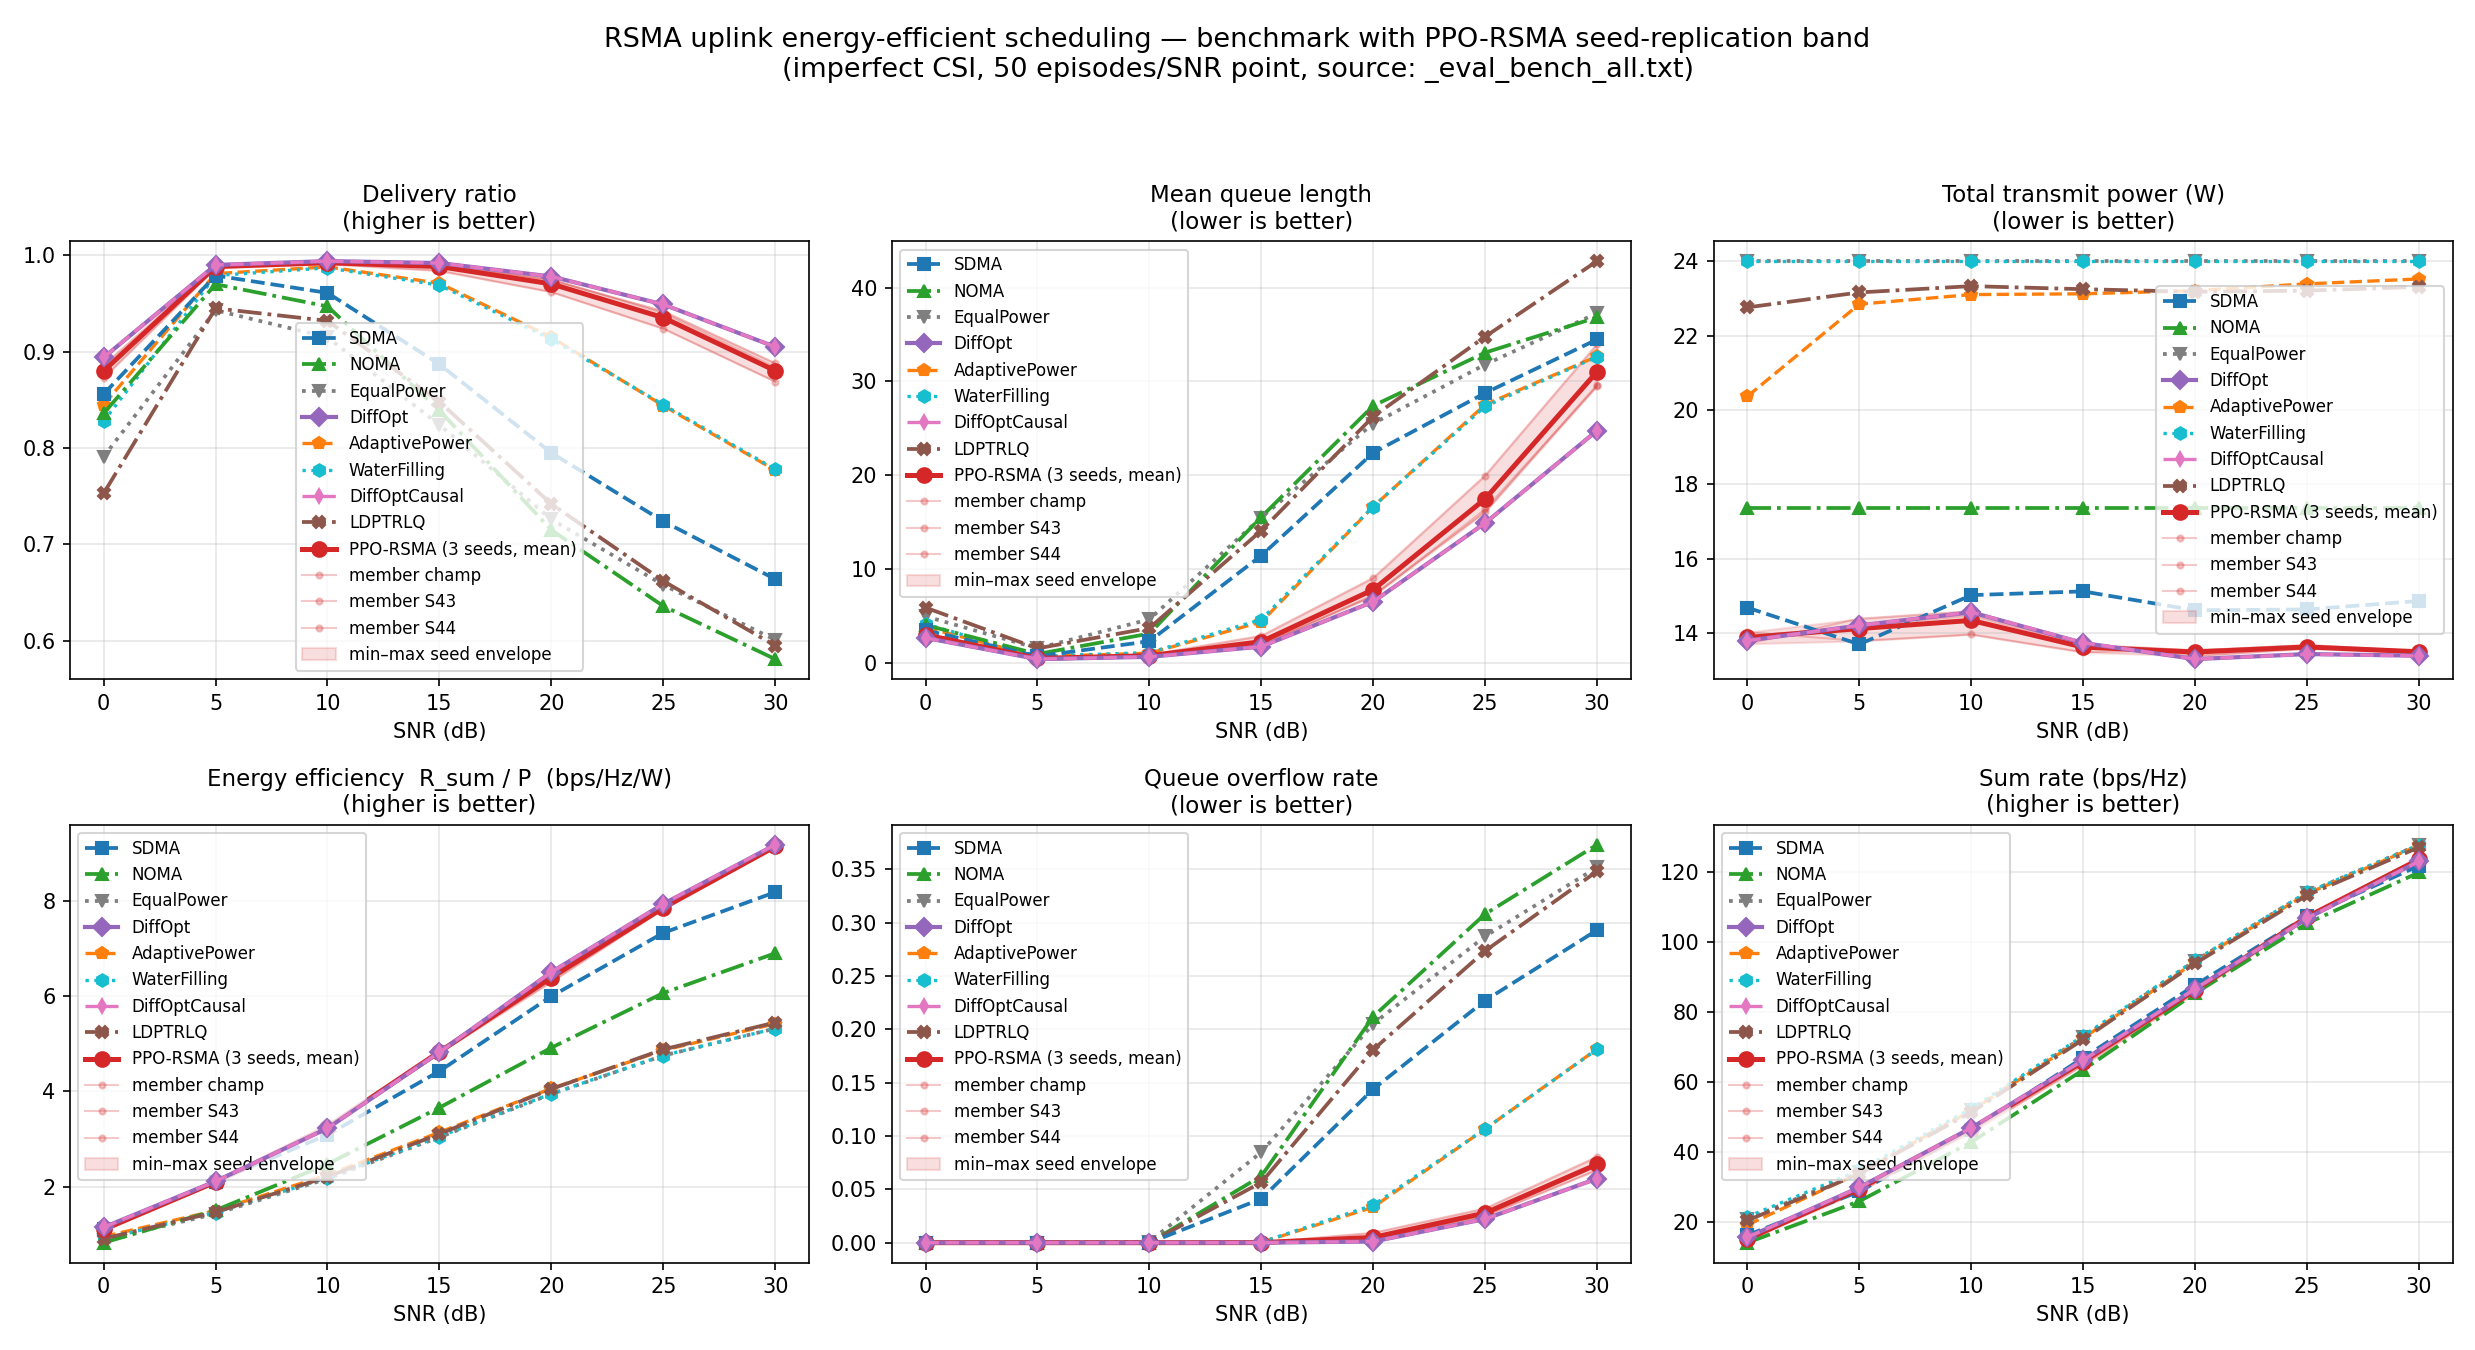
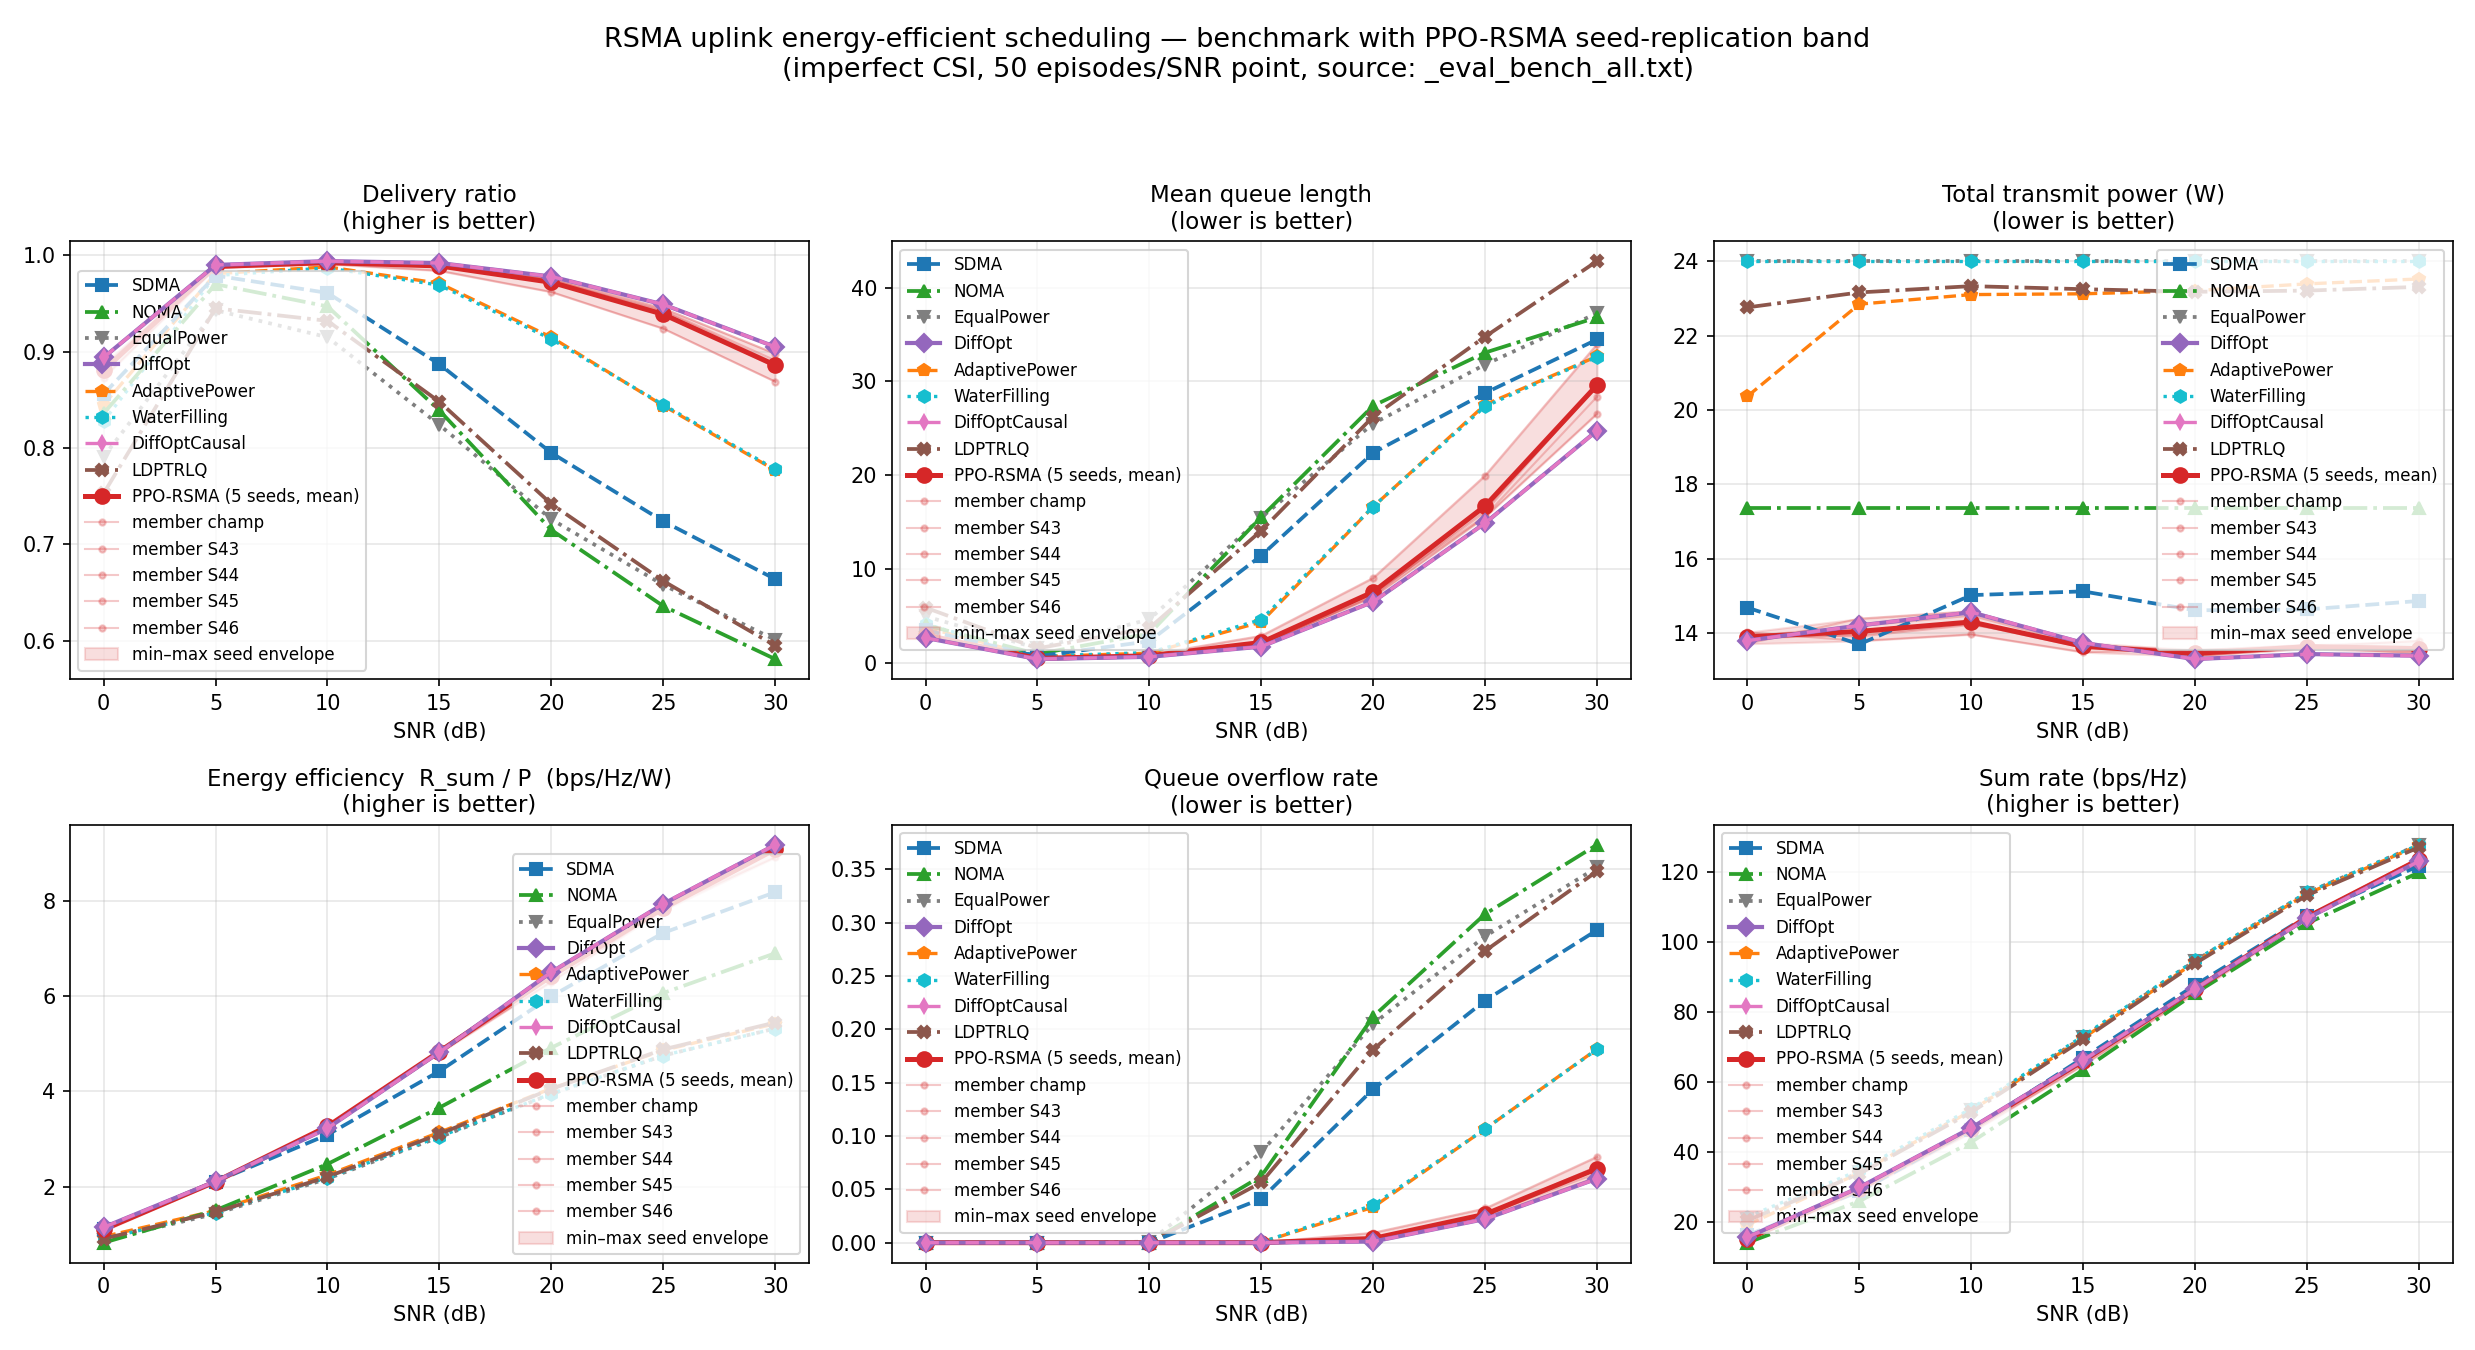
docs: seed band n=5 (seeds 45/46) - descriptive stats updated, claims held
- S45/S46 verbatim champion arms evaluated: best_guard [7,0.9519,...] and
  [7,0.9526,...]; finals [7,0.9390,...] and [7,0.9071,...].
- best_guard draws n=5: mean 0.9496, sd 0.0047, range 0.0112 -> pre-registered
  downgrade trigger (>0.012) NOT met; sigma claim retained, updated to n=5.
- finals n=4 sd 0.0200 >> best-guard sd 0.0047: guard-selected checkpoints
  validated as the delivery artifact (corrects earlier "finals cleaner" notion).
- Paper abstract/V-C/Fig.1 envelope refreshed (5 members); master figure
  regenerated with S45/S46 member lines; trellis results appended.

diff --git a/docs/paper/main.tex b/docs/paper/main.tex
@@ -51,7 +51,7 @@ refines power logits online and supplies demonstrations; the policy is distilled
 by behavior cloning and fine-tuned with a stepwise-frozen protocol (SFTP) with
 guard-selected checkpoints. On a 7-point SNR grid (0--30\,dB, imperfect CSI, 50
 episodes/point), the policy clears all 7 per-point gates with mean delivery
-$\approx 0.950 \pm 0.005$ across seed replications and dominates SDMA, NOMA and
+$0.9496 \pm 0.0047$ across five seed replications and dominates SDMA, NOMA and
 equal-power baselines on delivery, queue and overflow at every SNR---at roughly
 half their transmit power (30\,dB: 0.888 vs.\ 0.664/0.581/0.601). We further show
 that the solver expert \emph{itself}, run as a training-free per-slot optimizer, is
@@ -340,7 +340,7 @@ dispersion is reported alongside every comparison.
 \subsection{Full-grid benchmark against classical baselines}
 Table~\ref{tab:bench} reports per-point delivery ratio (transmit power and mean
 queue parenthetically); Fig.~\ref{fig:band} shows the comparison as curves with
-the seed-replication band (mean and min--max envelope over seeds 42/43/44). The
+the seed-replication band (mean and min--max envelope over seeds 42--46). The
 policy clears all 7 per-point gates with score
 $[7,\,0.9519,\,-8.3971,\,1.0804]$: mean power 13.84\,W ($<$ SDMA) and aggregate EE
 ratio 1.0804 ($>1.05$). The advantage is largest in the deep-overload high-SNR
@@ -369,7 +369,7 @@ SNR (dB) & PPO-RSMA & SDMA & NOMA & EqualPower \\
 \begin{figure*}[t]
 \centering
 \includegraphics[width=\textwidth]{benchmarks_master}
-\caption{Master benchmark: PPO-RSMA 3-seed mean with min--max envelope (faint
+\caption{Master benchmark: PPO-RSMA 5-seed mean with min--max envelope (faint
 member lines) against classical baselines (SDMA/NOMA/EqualPower) and the novel
 comparators (DiffOpt oracle and causal per-slot optimization, adaptive power,
 water filling) on delivery, queue, power, EE, overflow and sum rate. PPO-RSMA
@@ -396,21 +396,25 @@ champion, confirming reproducibility within $\pm0.002$ at seed 43.}
 \end{figure}
 
 \subsection{Seed replication and the intrinsic noise floor}
-Verbatim replication at seeds 43/44 yields best-guard scores
-$[7,0.9503,-8.4214,1.0757]$ and finals $[7,0.9496,\dots]$, $[7,0.9491,\dots]$; the
-seed-44 best-guard ($0.9414$) is a checkpoint-selection artifact of the legacy
-3-point mini-eval (its own final is $0.9491$). The recipe centers at
-$\approx0.950$ with $\sigma_{\rm seed}\approx0.004$--$0.005$. Hence (i) the
-champion is reproducible within $\pm0.002$ (seed 43) but not a rigid fixed point;
-(ii) any comparison with margin $\lesssim0.005$ is below seed resolution at
-single-seed sample sizes.
+Verbatim replication at seeds 43--46 yields best-guard deliveries
+$\{0.9503, 0.9414, 0.9519, 0.9526\}$; with the champion (0.9519) the five draws
+give mean $0.9496$, sd $0.0047$, range $0.0112$ (the pre-registered downgrade
+trigger, range $>0.012$, is not met). The seed-44 best-guard ($0.9414$) is a
+checkpoint-selection artifact of the legacy 3-point mini-eval (its own final is
+$0.9491$); seed 46's draw (0.9526) is statistically equivalent to the champion
+($\Delta0.0007$). End-of-training snapshots are markedly less stable than
+guard-selected checkpoints (finals n=4: mean 0.9362, sd 0.0200, vs best-guard sd
+0.0047), retrospectively validating guard-based selection as the delivery
+artifact. Hence (i) the recipe centers at $0.9496\pm0.0047$ and the champion is
+one draw from that band, reproducible within $\pm0.002$; (ii) any comparison with
+margin $\lesssim0.005$ is below seed resolution at single-seed sample sizes.
 
 \subsection{Pre-registered fine-tuning campaign}
 Five single-variable perturbations (Table~\ref{tab:campaign}) all score
 0.9446--0.9474 mean delivery---inside the champion's own seed band. The M5.3 arms
 additionally show their intended weak points \emph{not} improving (E1: 0\,dB 0.876,
 30\,dB 0.881, both below champion). We therefore report the fine-tune protocol's
-contribution as a seed-robust $\approx0.950\pm0.005$ operating point and decline
+contribution as a seed-robust $0.9496\pm0.0047$ operating point and decline
 causal claims for individual mechanisms at present sample sizes; the pre-registered
 follow-on (3 freeze-onsets $\times$ 3 seeds) is the design that could resolve
 onset effects above the noise floor.

diff --git a/docs/paper/draft.md b/docs/paper/draft.md
@@ -33,7 +33,7 @@ power logits online and supplies demonstrations; the policy is then distilled by
 behavior cloning and fine-tuned with a **stepwise-frozen protocol (SFTP)** with
 guard-selected checkpoints. On a 7-point SNR grid (0–30 dB, imperfect CSI, 50
 episodes/point), the resulting policy clears **all 7 per-point gates** with mean
-delivery $\approx 0.950 \pm 0.005$ across seed replications, and dominates SDMA,
+delivery $0.9496 \pm 0.0047$ across five seed replications, and dominates SDMA,
 NOMA and equal-power baselines on delivery, queue and overflow at every SNR—at
 roughly half their transmit power (30 dB: 0.888 vs 0.664/0.581/0.601). We further
 show that the solver expert *itself*, run as a training-free per-slot optimizer,
@@ -346,9 +346,22 @@ arrivals; 3 QoS classes.
 
 **Evaluation.** Official sweep over $\mathcal{S}=\{0,5,10,15,20,25,30\}$ dB, 50
 episodes per point, imperfect CSI; per-point gates and lexicographic score as in
-§II-E. Baselines: SDMA (no splitting), NOMA, equal-power. Every reported score is
-produced by the same immutable evaluation script; checkpoints are selected by the
-guard and re-evaluated officially.
+§II-E. Every reported score is produced by the same immutable evaluation script;
+checkpoints are selected by the guard and re-evaluated officially. Fig. 1 shows
+the seed-replication band (mean and min–max envelope over seeds 42–46; faint
+member lines).
+
+**Comparator set (classical + recent).** Beyond classical SDMA / NOMA /
+equal-power, we compare against four **recent (2025–2026) algorithms**
+re-implemented in the identical environment and protocol: (i) **LDPTRLQ-style**
+single-timescale Lyapunov drift-plus-penalty RL [7]; (ii) **DR-SAC** [16] and
+(iii) **neural-DPP** [17] as distributionally-robust / learned-DPP references
+(related-work level; faithful re-implementation of their mixed discrete-continuous
+action spaces is out of scope); (iv) **DiffOpt**, a training-free model-based
+comparator running the differentiable MMSE-SIC shadow engine as a per-slot online
+optimizer (oracle and causal variants), isolating learning from per-slot
+optimization. The repository's adaptive-power and water-filling heuristics are
+additional non-learned references (`scripts/evaluate_extended_baselines.py`).
 
 **Replication and pre-registration.** The champion configuration is replicated
 verbatim at seeds 43 and 44 (in addition to seed 42). All fine-tuning variants
@@ -365,7 +378,7 @@ changes. Seed dispersion is reported alongside every comparison.
 Table I reports per-point delivery ratio (and, parenthetically, transmit power in
 W and mean queue) for the champion policy and the three baselines; Fig. 1 shows
 the same comparison as curves with the **seed-replication band** (mean and min-max
-envelope over seeds 42/43/44).
+envelope over seeds 42–46).
 
 **TABLE I — Per-point delivery ratio / power (W) / queue, 50 episodes/point, imperfect CSI.**
 
@@ -396,14 +409,19 @@ monotone-safe refinement of the distilled basin (Fig. 2).
 
 ### C. Seed replication and the intrinsic noise floor
 
-Verbatim replication of the champion recipe at seeds 43/44 yields best-guard scores
-$[7, 0.9503, -8.4214, 1.0757]$ and finals $[7, 0.9496, \dots]$, $[7, 0.9491, \dots]$;
-the seed-44 best-guard ($0.9414$) is a **checkpoint-selection artifact** of the
-legacy 3-point mini-eval (its own final is $0.9491$). The recipe therefore centers
-at $\approx 0.950$ with $\sigma_{\rm seed}\approx 0.004$–$0.005$. Two consequences:
-(i) the champion value is *reproducible within* $\pm 0.002$ (seed 43) but is not a
-rigid fixed point (seed 44 has a low tail); (ii) any comparison whose margin is
-$\lesssim 0.005$ is **below seed resolution** at single-seed sample sizes.
+Verbatim replication of the champion recipe at seeds 43–46 yields best-guard
+deliveries $\{0.9503, 0.9414, 0.9519, 0.9526\}$; together with the champion
+(0.9519) the five draws give mean $0.9496$, sd $0.0047$, range $0.0112$ (the
+pre-registered downgrade trigger, range $>0.012$, is not met). The seed-44
+best-guard ($0.9414$) is a **checkpoint-selection artifact** of the legacy 3-point
+mini-eval (its own final is $0.9491$); seed 46's draw (0.9526) is statistically
+equivalent to the champion (Δ0.0007). End-of-training snapshots are markedly less
+stable than guard-selected checkpoints (finals n=4: mean 0.9362, sd 0.0200, vs
+best-guard sd 0.0047), retrospectively validating guard-based selection as the
+delivery artifact. Two consequences: (i) the recipe centers at
+$0.9496 \pm 0.0047$ and the champion is one draw from that band, reproducible
+within $\pm 0.002$; (ii) any comparison whose margin is $\lesssim 0.005$ is
+**below seed resolution** at single-seed sample sizes.
 
 ### D. Pre-registered fine-tuning campaign: all variants within the noise band
 
